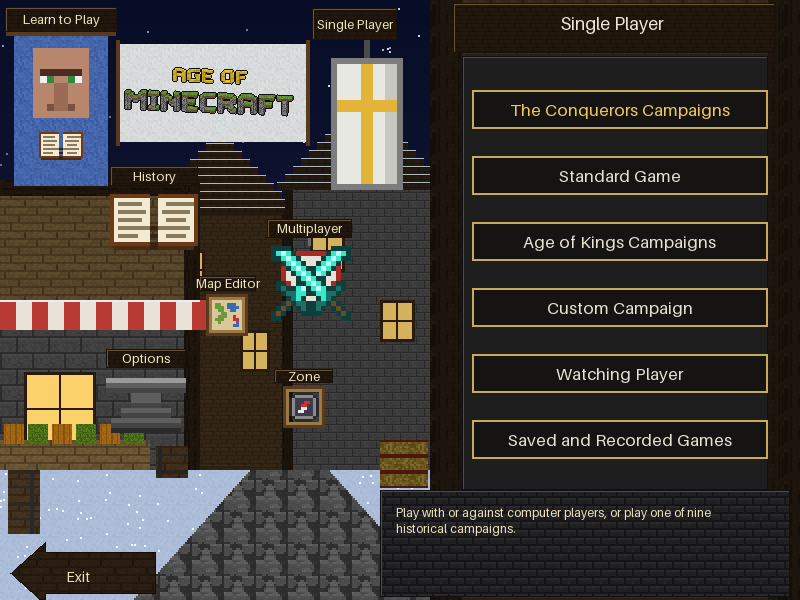
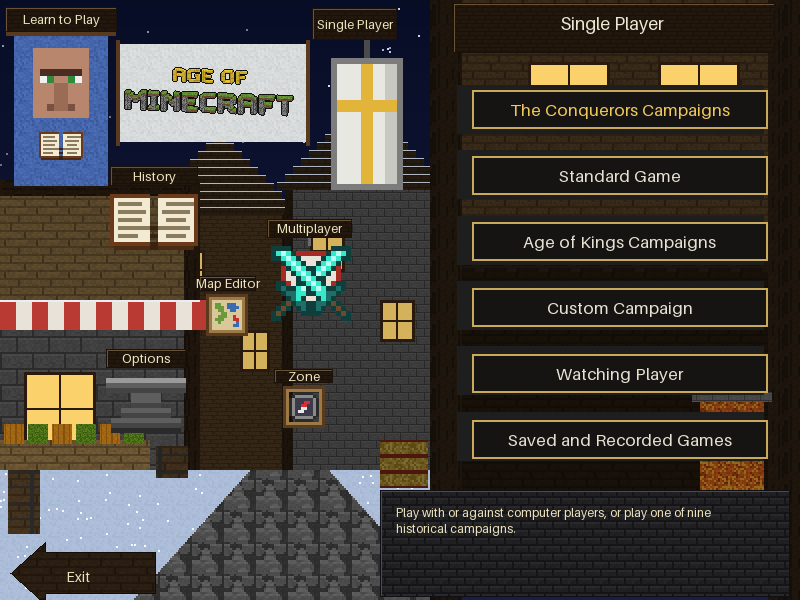
Keep the menu's blacksmith, with solid plates behind the Single Player buttons only
The flat board that replaced the blacksmith's side of the menu looked bad: the windows, sword rack and forge
are back, and only the six buttons of the Single Player menu get a solid dark plate behind them (placed from
photos of the game, a little bigger than the buttons), so the picture no longer shows through them.

diff --git a/tools/aom/menu.py b/tools/aom/menu.py
@@ -47,7 +47,10 @@ SIGNS = {"learn": (5, 7, 117, 32), "single": (312, 8, 397, 40), "history": (110,
          "zone": (274, 369, 333, 383)}
 TITLE_SIGN = (453, 3, 775, 53)
 DESCRIPTION = (380, 490, 790, 597)
-BOARD = (462, 56, 768, 490)  # the Single Player buttons: the game draws only their edges and names, so one flat colour
+# the Single Player menu's six buttons (measured on photos of the game): the game draws only their edges and names,
+# so the picture gets a solid plate behind each, a little bigger, and nothing shows through them
+SUBMENU = [(462, y, 759, y + 39) for y in (90, 155, 221, 286, 351, 417)]
+PLATE = "#1e1e1e"
 
 
 # --------------------------------------------------------------------------- drawing helpers
@@ -323,12 +326,20 @@ def scene() -> tuple[np.ndarray, dict[str, np.ndarray]]:
     for k, x in enumerate(range(4, 146, 24)):
         _tile(img, (x, 424, x + 20, 444), _tex("melon" if k % 2 else "pumpkin"), px=1, dark=0.75)
 
-    # the building on the right: the Single Player menu's board between dark oak logs, the title sign above
-    _tile(img, (430, 0, 800, 600), _tex("spruce_planks"), px=2, dark=0.45)
+    # the blacksmith on the right
+    _tile(img, (430, 0, 800, 272), _tex("spruce_planks"), px=2, dark=0.45)
     _tile(img, (430, 0, 462, 600), _tex("dark_oak_log"), px=2, dark=0.5)
     _tile(img, (768, 0, 800, 600), _tex("dark_oak_log"), px=2, dark=0.5)
-    _rect(img, BOARD, "#1e1e1e")  # nothing shows through the game's buttons
-    _frame(img, BOARD, "#101014", "#4a4a52")
+    _tile(img, (462, 240, 768, 272), _tex("dark_oak_log"), px=2, dark=0.5, turn=True)
+    _window(img, (528, 62, 610, 128))
+    _window(img, (658, 62, 740, 128))
+    _tile(img, (462, 272, 768, 490), _tex("dark_oak_planks"), px=2, dark=0.3)  # inside: dark, with a forge
+    _tile(img, (700, 400, 764, 490), _tex("lava"), px=2, dark=0.6)
+    _tile(img, (692, 392, 772, 402), _tex("stone_bricks"), px=1, dark=0.5)
+    for x in range(482, 690, 44):  # a rack of diamond swords on the wall
+        _blit(img, masks, None, sword(), x, 300, 2)
+    for x0, y0, x1, y1 in SUBMENU:  # solid behind the Single Player menu's buttons
+        _rect(img, (x0 - 5, y0 - 5, x1 + 5, y1 + 5), PLATE)
     _sign(img, masks, "title", TITLE_SIGN)
 
     # the ground: snow, and a cobblestone path

diff --git a/docs/DESIGN.md b/docs/DESIGN.md
@@ -174,11 +174,10 @@ The main menu is one 800x600 picture (`interfac.drs` 50189) with, for every
 button, pictures drawn over it at its place: the object cut out, with a yellow
 glow (the mouse is on it), with a white glow (pressed), and plain. The game
 writes the button names and the Single Player menu over the picture. Age of
-Minecraft's menu is a snowy block village at night, and each button a
-Minecraft thing in the original's exact place. On the right, where the Single
-Player menu opens, is one flat dark board between two dark oak logs: the game
-draws only the edges and names of those buttons, so nothing may show through
-them.
+Minecraft's menu is a snowy block village at night with a blacksmith on the
+right, and each button a Minecraft thing in the original's exact place. The
+game draws only the edges and names of the Single Player menu's buttons, so the
+picture has a solid dark plate behind each of them: nothing shows through.
 
 | Button | Minecraft |
 |---|---|
